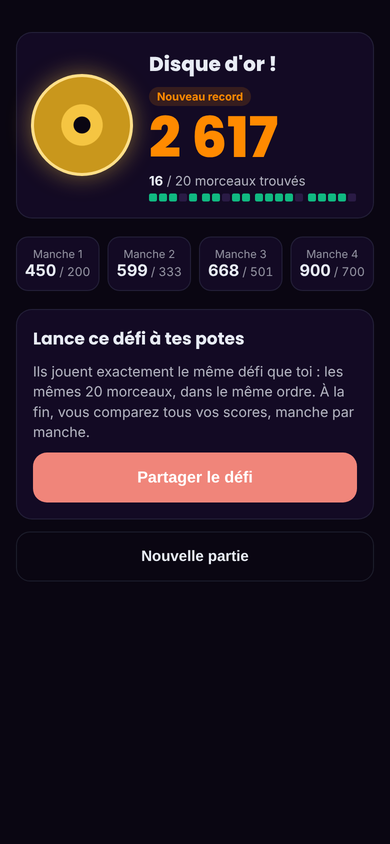
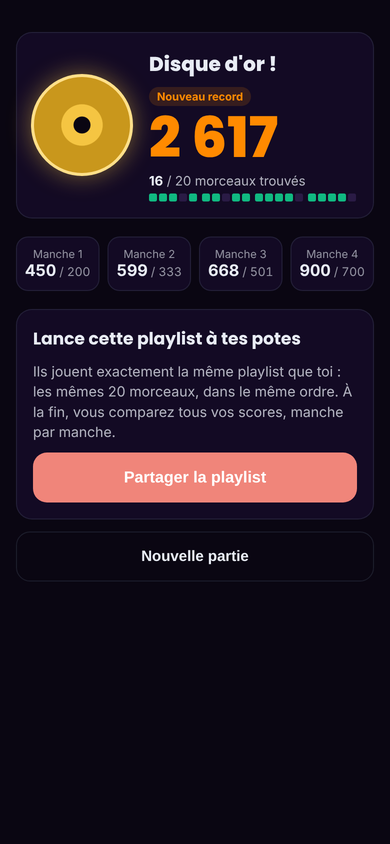
Run : « playlist » à l'écran à la place de « défi »
Choix de Clément (18/10) : titres, boutons et comparaison disent
« playlist » ; le code et la conception gardent challenge / « défi ».
Maquettes de fin de run et de comparaison régénérées.

Changed region(s): [[0.0923, 0.3697, 0.9231, 0.5237], [0.3077, 0.5545, 0.6769, 0.5853]]

diff --git a/docs/runs/regles.md b/docs/runs/regles.md
@@ -2,12 +2,14 @@
 
 Règles validées par Clément le 17/10/2026. Les écrans qui les montrent : [`ecrans.md`](ecrans.md). Leur traduction technique : [`conception.md`](conception.md). Les seuils et la difficulté seront réglés après les parties de test (tout est réglable à chaud, cf. [Réglages](#réglages)).
 
-## Le défi
+## La playlist
 
-- Un défi = **4 manches de 5 morceaux** (20 morceaux), tirés et enregistrés **à la création du défi**, sans doublon, dans **tout le catalogue jouable**, morceaux du Daily compris.
+À l'écran, un défi s'appelle une **playlist** (Clément, 18/10) ; le code garde `challenge`.
+
+- Une playlist = **4 manches de 5 morceaux** (20 morceaux), tirés et enregistrés **à la création de la playlist**, sans doublon, dans **tout le catalogue jouable**, morceaux du Daily compris.
 - **Difficulté croissante** : le catalogue est trié par rang Deezer et coupé en 4 tranches, une par manche (manche 1 = les morceaux les plus connus). Un morceau sans rang va dans la tranche la moins connue.
-- Les règles (manches, seuils, multiplicateurs…) sont **figées dans le défi** à sa création : un réglage changé ensuite ne touche pas un défi existant, ni la partie d'un ami qui le relève plus tard.
-- **Runs illimités** : un joueur autorisé lance autant de runs qu'il veut. Chaque run est un nouveau défi.
+- Les règles (manches, seuils, multiplicateurs…) sont **figées dans la playlist** à sa création : un réglage changé ensuite ne touche pas une playlist existante, ni la partie d'un ami qui le relève plus tard.
+- **Runs illimités** : un joueur autorisé lance autant de runs qu'il veut. Chaque run est une nouvelle playlist.
 
 ## Un morceau
 
@@ -22,7 +24,7 @@ Règles validées par Clément le 17/10/2026. Les écrans qui les montrent : [`e
 
 - **Points d'un morceau = (50 si l'artiste est juste + 50 si le titre est juste) × multiplicateur de la manche**, arrondi au plus proche sur le total du morceau. Artiste et titre sont corrigés séparément, avec la même tolérance qu'au Daily.
 - Multiplicateur, le même pour toute une manche : **×1 ; ×1,33 ; ×1,67 ; ×2**. Le joueur ne le voit pas à l'écran : il le voit dans les points gagnés.
-- Maximum par manche : 500, 665, 835, 1 000, soit **3 000** pour un défi.
+- Maximum par manche : 500, 665, 835, 1 000, soit **3 000** pour une playlist.
 - Un morceau est **trouvé** quand l'artiste et le titre sont justes (c'est ce que compte « 16 / 20 morceaux trouvés » à la fin).
 
 ## La jauge
@@ -53,18 +55,18 @@ La suite de l'échelle est prévue pour quand un run aura plus de 4 manches : pl
 - **Abandon** : possible à tout moment pendant une manche (lien « Abandonner », comme au Daily). Une partie abandonnée est finie.
 - **Interruption** : une partie en cours se reprend au morceau en cours (même verrou anti-triche que le Daily).
 
-## Le défi partagé
+## La playlist partagée
 
-- Chaque run a un lien : **`inseconds.cc/runs/K7Q2M9`** (code de 6 caractères sans caractère ambigu, saisie insensible à la casse). Il se partage depuis l'écran de fin (« Partager le défi »).
+- Chaque run a un lien : **`inseconds.cc/runs/K7Q2M9`** (code de 6 caractères sans caractère ambigu, saisie insensible à la casse). Il se partage depuis l'écran de fin (« Partager la playlist »).
 - Tous ceux qui ouvrent le lien jouent **les mêmes 20 morceaux, dans le même ordre**, **une seule fois** chacun, sans compte obligatoire (un invité est créé comme au Daily).
-- Les 20 morceaux sont tirés dès le départ : un ami peut aller plus loin que l'auteur du défi si celui-ci a perdu avant la fin.
-- **Comparaison** : après avoir fini sa partie, chacun voit toutes les parties terminées sur ce défi, manche par manche, avec le pseudo de chacun (« Invité » pour un invité), son disque et son total. **Ce n'est pas un classement général** : seuls ceux qui ont le lien la voient, et la page de confidentialité le dit.
+- Les 20 morceaux sont tirés dès le départ : un ami peut aller plus loin que l'auteur de la playlist si celui-ci a perdu avant la fin.
+- **Comparaison** : après avoir fini sa partie, chacun voit toutes les parties terminées sur cette playlist, manche par manche, avec le pseudo de chacun (« Invité » pour un invité), son disque et son total. **Ce n'est pas un classement général** : seuls ceux qui ont le lien la voient, et la page de confidentialité le dit.
 
 ## L'accès pendant le proto
 
 - **Sur invitation** : Platines n'est ouvert qu'aux comptes que Clément autorise, par un interrupteur dans l'onglet Joueurs de l'admin. Les admins ont l'accès d'office. Un invité sans compte n'y a pas accès. L'interrupteur est distinct du rôle admin (qui reste posé en SQL seulement).
 - Sans accès, rien ne change pour le joueur : pas de carte Platines sur l'accueil, et l'adresse `/runs` renvoie vers le Daily.
-- **Lien reçu** : un ami sans accès qui ouvre le lien d'un défi peut jouer **ce défi-là seulement**, invité compris. À la fin, il ne voit pas « Nouvelle partie » mais une invitation à jouer au Daily.
+- **Lien reçu** : un ami sans accès qui ouvre le lien d'une playlist peut jouer **cette playlist-là seulement**, invité compris. À la fin, il ne voit pas « Nouvelle partie » mais une invitation à jouer au Daily.
 - Retirer l'accès n'interrompt pas une partie en cours ; cela empêche seulement d'en lancer une nouvelle.
 
 ## Réglages

diff --git a/docs/runs/README.md b/docs/runs/README.md
@@ -2,15 +2,15 @@
 
 > **État au 17/10/2026 : conçu, pas encore codé.** Les règles, les écrans et la conception sont validés pour le proto 1 ; le code commence quand Clément le décide. Rien de ce dossier n'existe encore dans `src/`.
 
-Un run, c'est une suite de **4 manches de 5 morceaux**, de plus en plus difficiles. À chaque manche, il faut remplir une jauge de points pour débloquer la suivante. À la fin, on gagne un **disque** (rayé, cire, bronze, argent, or) selon les manches passées, et on peut envoyer le même défi à ses amis pour comparer les scores.
+Un run, c'est une suite de **4 manches de 5 morceaux**, de plus en plus difficiles. À chaque manche, il faut remplir une jauge de points pour débloquer la suivante. À la fin, on gagne un **disque** (rayé, cire, bronze, argent, or) selon les manches passées, et on peut envoyer la même playlist à ses amis pour comparer les scores.
 
-Noms : **« Run »** dans les tickets GitHub (étiquette `run`), **`Runs`** dans le code (module back, schéma, routes, réglages, domaine front), **« Platines »** à l'écran (nom provisoire, il ne vit que dans les traductions : le changer ne touche que les textes).
+Noms : **« Run »** dans les tickets GitHub (étiquette `run`), **`Runs`** dans le code (module back, schéma, routes, réglages, domaine front), **« Platines »** à l'écran (nom provisoire, il ne vit que dans les traductions : le changer ne touche que les textes). Un défi (`challenge` dans le code) s'appelle une **playlist** à l'écran (Clément, 18/10).
 
 ## Les documents
 
 | Document | Contenu |
 |---|---|
-| [`regles.md`](regles.md) | Les règles du proto 1 : manches, points, jauge, disques, défi partagé, accès |
+| [`regles.md`](regles.md) | Les règles du proto 1 : manches, points, jauge, disques, playlist partagée, accès |
 | [`ecrans.md`](ecrans.md) | Les écrans, qui font référence : maquettes à intégrer telles quelles, avec le design système existant |
 | [`conception.md`](conception.md) | La conception technique : module `Runs`, données, routes, codes d'erreur, front, ce qui change dans Players et Catalogue |
 | [`plan.md`](plan.md) | La feuille de route (proto 1, proto 2, plus tard), le découpage en PR, les idées de bonus, l'historique des décisions |

diff --git a/docs/runs/ecrans.md b/docs/runs/ecrans.md
@@ -61,18 +61,17 @@ Après Valider ou Passer, **on reste dans l'écran de la manche** : le lecteur e
 Même mise en page dans les deux cas :
 - **Carte du disque**, horizontale : le disque dessiné à gauche (or, argent, bronze, cire, rayé) ; à droite, le nom du disque (« Disque d'or ! »), un badge « Nouveau record » ou « Record : 2 617 », le score final en grand, puis **« 16 / 20 morceaux trouvés »** et 20 petits carrés groupés par manche (vert = trouvé ; une manche non jouée en carrés vides).
 - **4 cases** « Manche N » avec « score / objectif » ; l'objectif manqué en ambre ; **✕** pour une manche non jouée.
-- **Bloc « Lance ce défi à tes potes »** : « Ils jouent exactement le même défi que toi : les mêmes 20 morceaux, dans le même ordre. À la fin, vous comparez tous vos scores, manche par manche. » et le bouton **« Partager le défi »**.
+- **Bloc « Lance cette playlist à tes potes »** : « Ils jouent exactement la même playlist que toi : les mêmes 20 morceaux, dans le même ordre. À la fin, vous comparez tous vos scores, manche par manche. » et le bouton **« Partager la playlist »**.
 - **« Nouvelle partie »** dessous (un ami sans accès voit à la place une invitation à jouer au Daily).
 - Pas de « Voir les morceaux » : la liste a été vue à chaque fin de manche.
 
-## 5. La comparaison d'un défi
+## 5. La comparaison d'une playlist
 
 ![Comparaison](maquettes/comparaison.png)
 
-- Surtitre **« DÉFI DE CLÉMENT »** (pseudo de l'auteur, sans le code du lien), titre **« 4 joueurs de cette playlist »**.
+- Surtitre **« PLAYLIST DE CLÉMENT »** (pseudo de l'auteur, sans le code du lien), titre **« 4 joueurs de cette playlist »**.
 - Tableau : Joueur (pseudo et disque dessous), M1 à M4, Total ; trié par total. **« Toi »** surligné en orange ; **✕** pour une manche non jouée ; « Invité » pour un joueur sans compte.
-- **« Partager le défi »** en bas.
-- Question ouverte : « playlist » ou « défi » dans le titre (le reste de l'écran dit « défi »).
+- **« Partager la playlist »** en bas.
 
 ## 6. L'entrée sur l'accueil
 

diff --git a/docs/runs/plan.md b/docs/runs/plan.md
@@ -9,7 +9,7 @@ La feuille de route décidée le 17/10/2026 peut encore changer.
 1. **Étape 0, règles et maquettes** : faite le 17/10/2026 (ce dossier).
 2. **Proto 1, la boucle sans bonus** ([#360](https://github.com/Oasis35/InSeconds/issues/360)) :
    - 4 manches de 5 morceaux, écoute fixe de 10 s, jauge par manche, réponse après chaque morceau ;
-   - disques, record perso, défi partagé par lien avec comparaison ;
+   - disques, record perso, playlist partagée par lien avec comparaison ;
    - ouvert sur invitation seulement, entrée par une carte sur l'accueil.
 
    Le code prévoit la place des bonus sans en livrer aucun. Le but est de savoir si c'est amusant et de régler les seuils et la difficulté.
@@ -101,7 +101,7 @@ Pour le prototype des bonus : une douzaine de bonus communs, sans rareté ni dé
   - écoute fixe de 10 s, pool commun avec le Daily ;
   - points = (50 + 50) × difficulté, runs illimités ;
   - nom affiché « Platines », paliers en disques inventés ;
-  - accès sur invitation, défi partagé par lien avec comparaison et sans classement ;
+  - accès sur invitation, playlist partagée par lien avec comparaison et sans classement ;
   - morceau sans extrait neutralisé, partie à l'honneur sans chrono ;
   - entrée par une carte sur l'accueil (option A).
 - **17/10/2026, revue indépendante du plan** (hors dépôt). Elle a apporté :

diff --git a/docs/runs/conception.md b/docs/runs/conception.md
@@ -214,4 +214,5 @@ L'interrupteur « Platines » de l'onglet Joueurs lit `GET /api/admin/runs/acces
 8. Temps de réponse : aucun chrono, partie à l'honneur, réécoute libre (Clément, 17/10). Un chrono `Runs:AnswerSeconds` ne sera ajouté que si les parties de test montrent des abus ; limiter les réécoutes reste un bonus ou un malus possible du proto 2.
 9. Entrée sur l'accueil : la carte seulement (option A), rien d'autre ne change sur l'accueil ni sur « déjà joué » (Clément, 17/10).
 10. Les maquettes de [`ecrans.md`](ecrans.md) font référence, dont la réponse après chaque morceau dans l'écran de manche (Clément, 17/10).
-11. Questions ouvertes : « playlist » ou « défi » dans le titre de la comparaison ; remettre ou non une ligne « X % ont échoué » sous chaque morceau de la fin de manche (elle demanderait des statistiques par morceau sur les runs, absentes du proto 1).
+11. À l'écran, le défi s'appelle une **playlist** partout (titres, boutons, comparaison) ; le code et cette conception gardent `challenge` / « défi » (Clément, 18/10).
+12. Question ouverte : remettre ou non une ligne « X % ont échoué » sous chaque morceau de la fin de manche (elle demanderait des statistiques par morceau sur les runs, absentes du proto 1).
